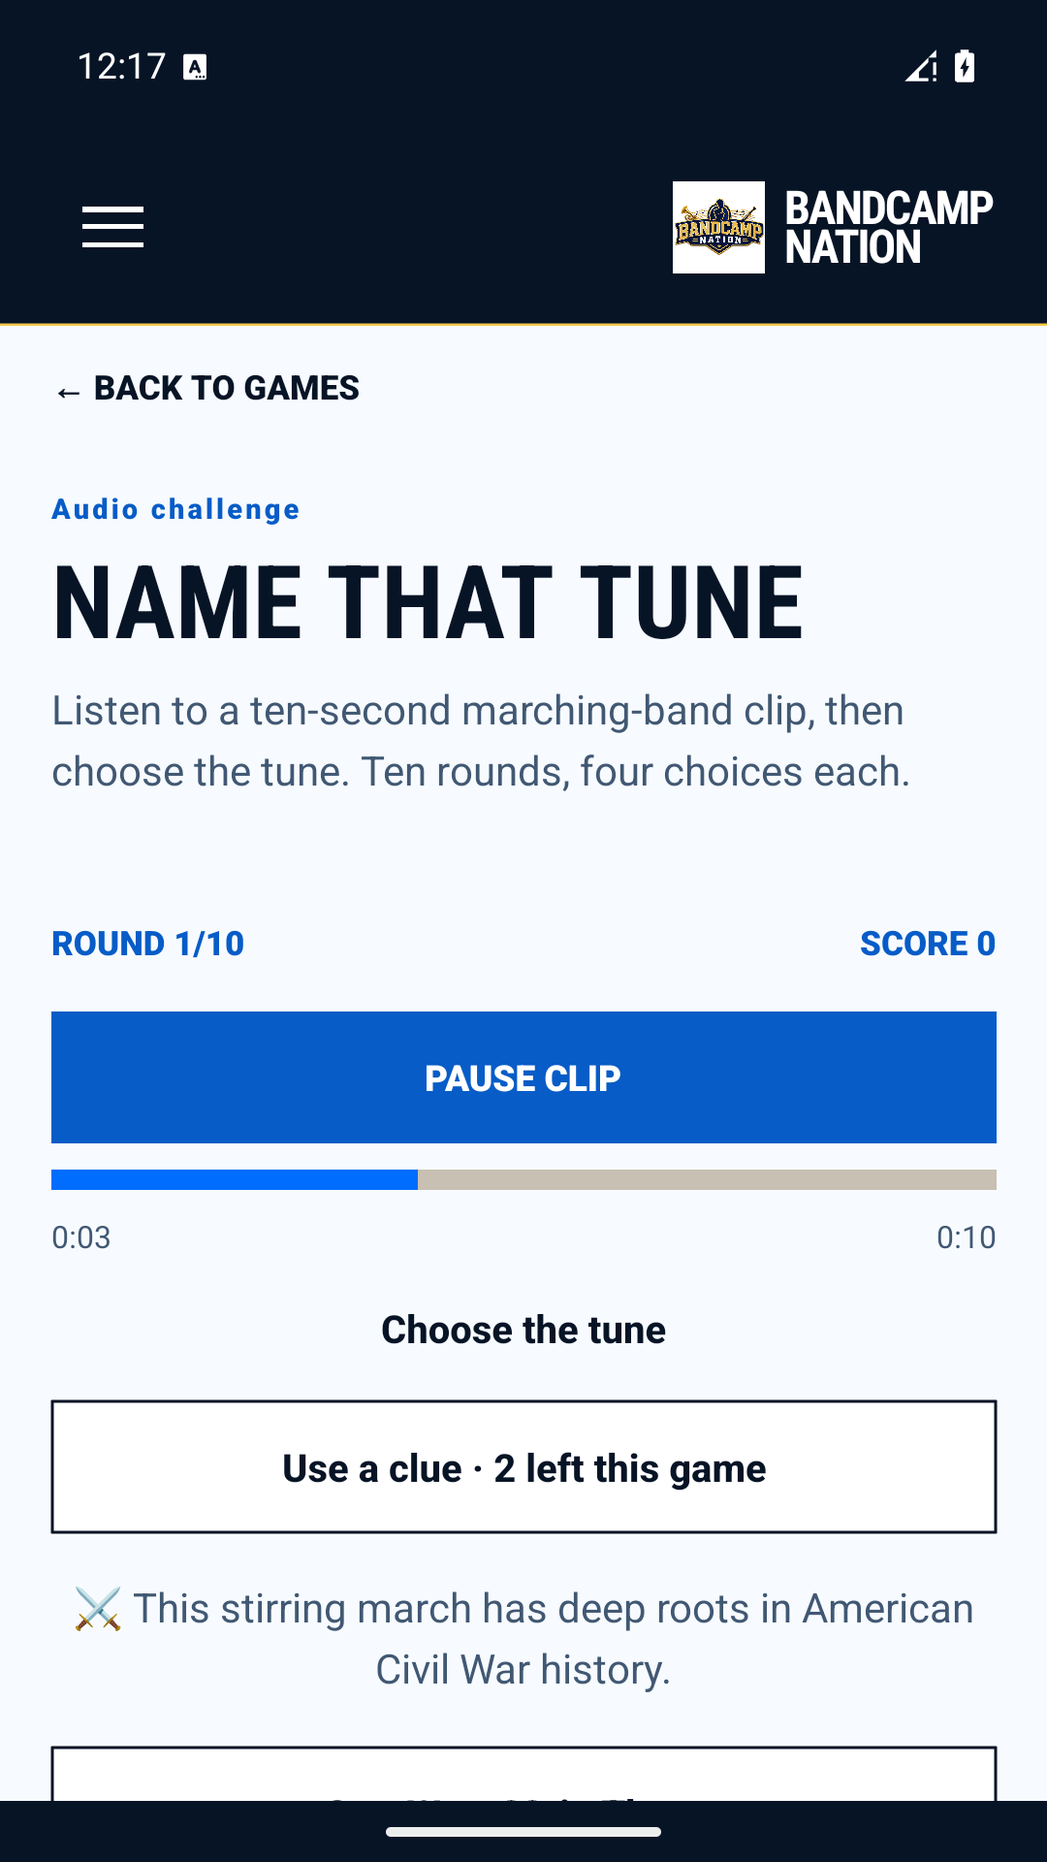
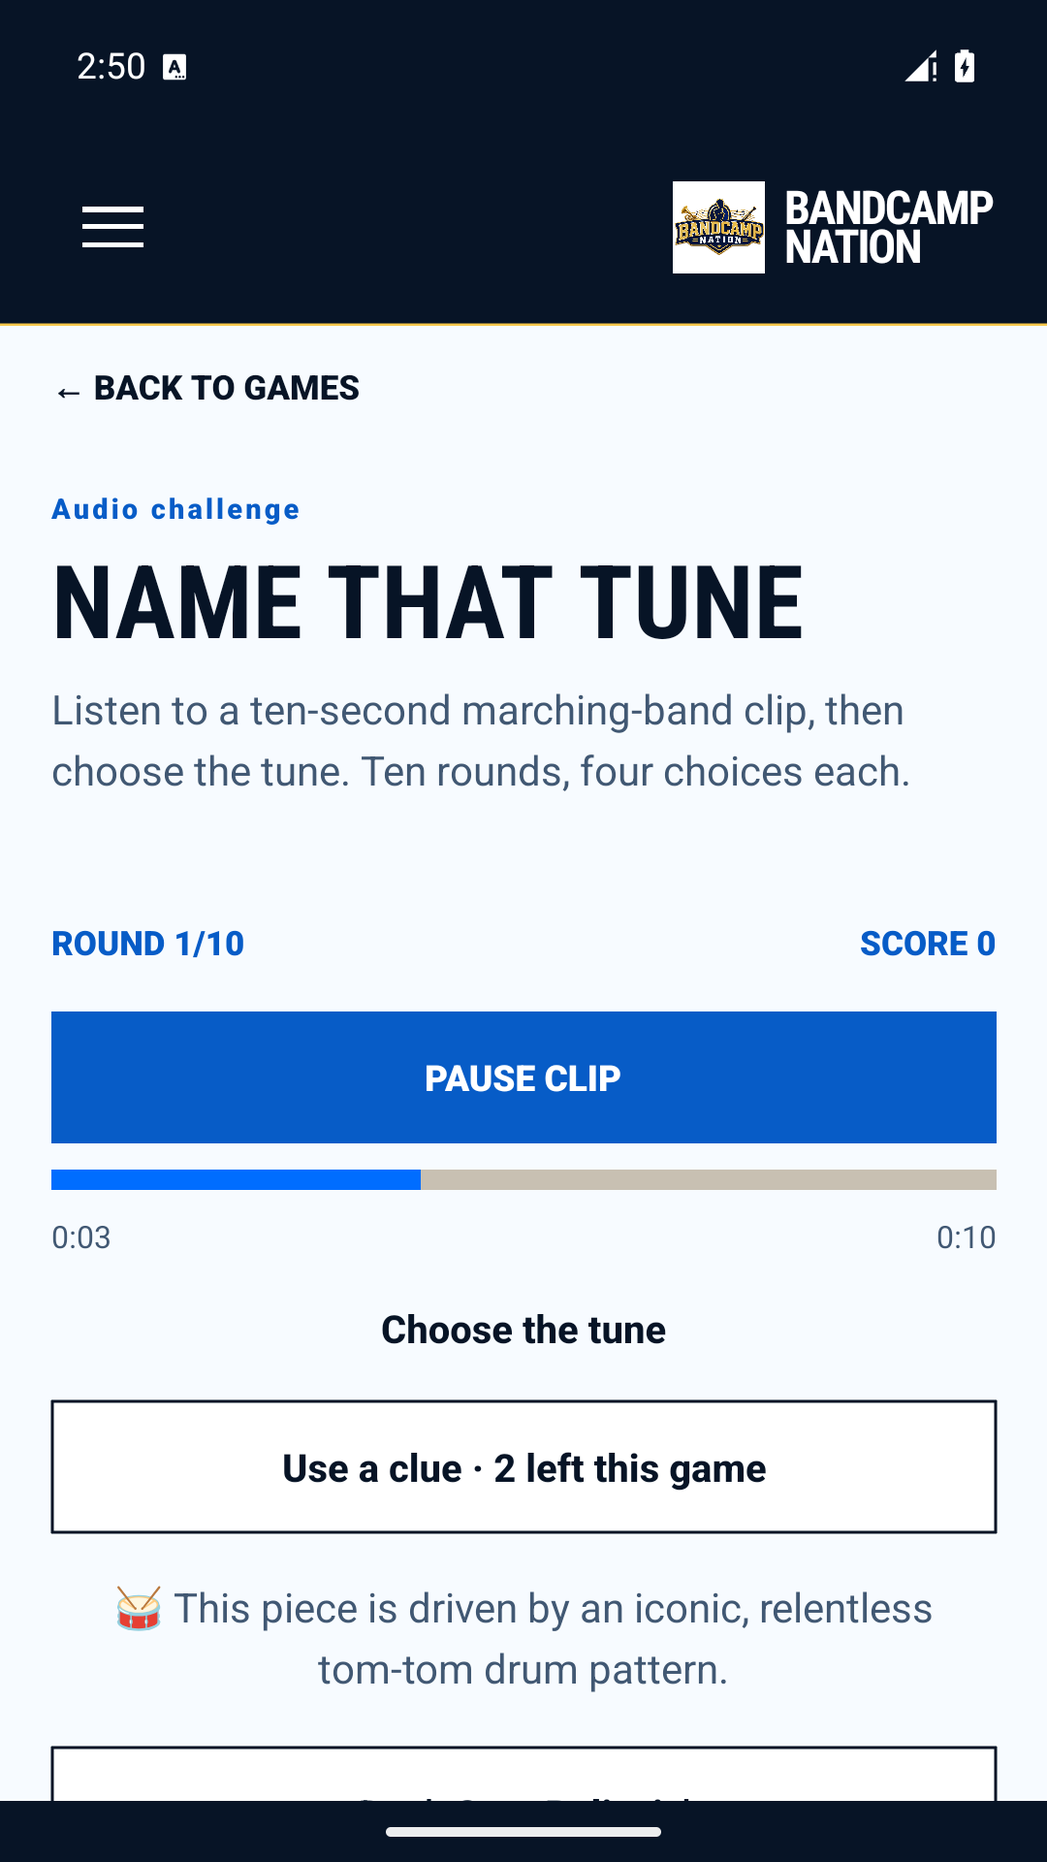
Produce test builds and complete intern release handoff

Changed region(s): [[0.0611, 0.8438, 0.9167, 0.9062], [0.0611, 0.0312, 0.2139, 0.0625]]

diff --git a/docs/PROGRESS.md b/docs/PROGRESS.md
@@ -13,30 +13,30 @@ Performed October 19, 2026. Status: **complete**.
 
 ## Bootstrap BandCampNation Expo app and test Android/iOS launch
 
-Performed October 19, 2026. Status: **implementation complete; iOS launch acceptance blocked**.
+Performed October 19, 2026. Status: **native Android/iOS launches verified; physical-device acceptance pending**.
 
 - Created the standalone Expo/TypeScript project using the reference lockfile and original BandCampNation logo. Proposed identifiers are `com.bandcampnation.mobile`; owner confirmation is needed before signing.
 - `npm ci` passed. `npm run check` passed on isolated Node 24.21.0: lint, strict TypeScript and manifest/security checks.
 - Android and iOS Hermes bundle exports passed. These are not signed binary builds.
 - Created a temporary API 36 ARM64 Android emulator, installed Expo Go SDK 57, and launched the app through Metro on port 8082. Native UI text assertions passed; screenshot: [Android bootstrap](evidence/android-bootstrap.png).
-- iOS launch remains blocked: full Xcode and `simctl` are absent. No iOS runtime claim is made.
+- Local iOS launch was initially blocked because full Xcode and `simctl` are absent. Hosted native iOS launch was subsequently verified in the final QA task below.
 - Setup commands and environment/credential boundaries are in SETUP.md. The installed Homebrew Node 24 has a missing simdjson dylib; verification used an isolated official Node 24 runtime rather than changing system software.
 - Review/demo: `npm ci && npm start`, then open on Android with Expo Go. GitHub push evidence is the remote commit matching this task title.
 
 ## Build native navigation, Home, theme and accessibility
 
-Performed October 19, 2026. Status: **implementation and Android navigation checks complete; assistive-technology acceptance pending**.
+Performed October 19, 2026. Status: **native Android/iOS navigation verified; assistive-technology acceptance pending**.
 
 - Added branded native Home, shared header/menu, and Home/Radio/Articles/Books/Entertainment destinations using Expo Router.
 - Adapted original BandCampNation hero/logo/copy and palette. Reused the reference shell and 48-point controls, scalable text, semantic labels/headings and modal isolation; made the menu scrollable for large text.
 - Fixed a real native compatibility issue found during testing: Expo Router's Slot requires flattened styles on Link children. Primary navigation now uses flattened styles; brand styles are plain objects.
 - `npm run check` passed (lint, TypeScript, manifest and route checks).
 - API 36 ARM64 Expo Go UI-tree journey passed Radio, Articles, Books, Entertainment, return Home and menu open/close. Screenshots: [Home](evidence/android-home.png), [menu](evidence/android-navigation.png).
-- Remaining destination bodies are deliberately implemented in their following tasks. Human VoiceOver/TalkBack and iOS checks remain open; see ACCESSIBILITY.md.
+- Destination bodies were completed in the following tasks. Native iOS navigation was subsequently verified in final QA; human VoiceOver/TalkBack checks remain open (ACCESSIBILITY.md).
 
 ## Connect content services and migrate articles/books reader
 
-Performed October 19, 2026. Status: **implementation and Android reader checks complete; iOS device acceptance pending**.
+Performed October 19, 2026. Status: **native Android/iOS reader checks passed; physical-device acceptance pending**.
 
 - Migrated all 15 original articles and both complete books: 64 native reading sections total, including 33 book sections. Bundled the original covers and decoded text; no server modules/credentials or HTML runtime enter Metro.
 - Added searchable native libraries, article/chapter reading, book contents, previous/next sections, scalable/selectable text and missing-document/section handling. Navigating sections resets scroll position.
@@ -48,7 +48,7 @@ Performed October 19, 2026. Status: **implementation and Android reader checks c
 
 ## Implement BandCamp Radio playback and track browsing
 
-Performed October 19, 2026. Status: **implementation and Android streaming checks complete; iOS playback acceptance pending**.
+Performed October 19, 2026. Status: **native Android/iOS playback checks passed; physical-device acceptance pending**.
 
 - Connected the existing public `/api/radio/songs` service without AWS credentials or SDKs. Verified 81 published, unrestricted HTTPS tracks in the live response.
 - Added boundary validation, duplicate/private/draft/unsafe-URL exclusion, sorting, local title/artist/tag search, incremental browsing and selected-track feedback.
@@ -60,7 +60,7 @@ Performed October 19, 2026. Status: **implementation and Android streaming check
 
 ## Build entertainment hub and migrate Trivia/Tic-Tac-Toe
 
-Performed October 19, 2026. Status: **implementation and Android game checks complete; iOS device acceptance pending**.
+Performed October 19, 2026. Status: **native Android/iOS game checks passed; physical-device acceptance pending**.
 
 - Added native entertainment cards with original BandCampNation artwork and two offline playable games.
 - Reused the BetweenBands native Trivia screen and ten source-matched questions with scoring, answer feedback, next/results and replay. Reused native Tic Tap Tone with single/two-player modes, win/tie, reset and computer win/block moves.
@@ -72,7 +72,7 @@ Performed October 19, 2026. Status: **implementation and Android game checks com
 
 ## Adapt audio games and audit remaining mobile game parity
 
-Performed October 19, 2026. Status: **native adaptation and Android check complete; mentor parity review and iOS acceptance pending**.
+Performed October 19, 2026. Status: **native Android/iOS audio-game checks passed; mentor parity review and physical-device acceptance pending**.
 
 - Added native Name That Tune using all 40 original BandCampNation ten-second snippets and three-clue sets, bundled for offline use.
 - Reused tested shuffle/unique-round/choice generation and the reference native audio screen. Added three clues per game, listen-before-answer, score/results/replay, loading/error/retry and native progress/play/pause.
@@ -83,7 +83,7 @@ Performed October 19, 2026. Status: **native adaptation and Android check comple
 
 ## Add network recovery, lifecycle handling and app polish
 
-Performed October 19, 2026. Status: **implementation and standalone Android recovery checks complete; iOS/physical interruption checks pending**.
+Performed October 19, 2026. Status: **Android recovery and Android/iOS background-pause checks passed; physical interruption checks pending**.
 
 - Added shared audio lifecycle handling, exclusive focus/no recording, explicit pause on screen blur and both background/foreground transitions. Native testing exposed Expo Audio's automatic foreground resume; pausing again on foreground fixes it.
 - Added active/focused radio completion advancement, native-position seeking, catalog refresh retaining prior data on error, uncached public fetches, artwork retry/fallback, clip exception handling, unknown-route recovery and a root retry boundary.
@@ -92,15 +92,28 @@ Performed October 19, 2026. Status: **implementation and standalone Android reco
 - `npm run check` passed; current iOS and Android Hermes exports passed.
 - Standalone API 36 ARM64 APK checks passed background → foreground → paused, forced Wi-Fi/data loss → radio error, network restoration → retry → playback → pause. Native audio-state inspection after navigating to Articles showed the app's players paused.
 - Evidence: [background paused](evidence/android-background-paused.png), [offline radio](evidence/android-radio-offline.png), [restored playback](evidence/android-radio-recovered.png).
-- Physical headset/call interruptions and human screen-reader testing remain open. Local full Xcode remains unavailable; hosted iOS simulator QA is being prepared next.
+- Physical headset/call interruptions and human screen-reader testing remain open. Local full Xcode remains unavailable; hosted iOS simulator QA subsequently passed in the following task.
 
 ## Run Android/iOS device QA and fix MVP defects
 
-Performed October 19, 2026. Status: **Android Release QA passed; hosted iOS QA in progress**.
+Performed October 19, 2026. Status: **native Android Release and iOS simulator QA passed; physical-device and human accessibility checks pending**.
 
 - Added a repeatable native Android driver and hosted iOS Release-build/XCTest workflow with screenshot/result/demo artifacts. Local Python/Ruby/Swift syntax and workflow YAML checks passed.
 - Built and installed the standalone ARM64 Android Release APK with embedded JavaScript, all reading content and 40 MP3 clips. All nine native smoke stages passed: Home, offline article/book, live radio, background pause, complete 10/10 Trivia/replay, Tic Tap Tone tie, offline audio game and 200% text navigation. [Machine-readable result](evidence/android-release-report.json), [radio](evidence/android-release-radio.png), [offline audio](evidence/android-release-audio.png), [large text](evidence/android-release-large-text.png).
[2 lines of base64/hex data omitted]
 - Applied Expo Doctor's six recommended SDK 57 patch updates. `npm run check` passed afterward. Compatible lockfile security updates removed the reported critical advisory; remaining upstream entries are documented in DEPENDENCY_REVIEW.md.
 - Current Android/iOS exports passed a server SDK/credential-marker check. No website/server source was changed.
-- Expo Doctor passed 21/21. Hosted checks passed clean install, lint, TypeScript, all nine tests and both exports. The [first iOS run](https://github.com/Accoladi/BandCampNation-Mobile-App/actions/runs/39282437969) generated the project/pods and booted a simulator, then failed because the new UI-test target had no product name. Set its explicit product name and reran the native build; iOS acceptance is pending that actual result. Physical-device and assistive-technology acceptance remains open.
+- Expo Doctor passed 21/21. Hosted checks passed clean install, lint, TypeScript, all nine tests and both exports.
+- The [final native iOS run](https://github.com/Accoladi/BandCampNation-Mobile-App/actions/runs/39299528440) passed the complete XCTest journey: Home/navigation, native article/book, live radio/background pause/next/pause, Trivia progression, Tic Tap Tone win and bundled Name That Tune playback/clue. The iPhone 17 Pro simulator app uses the iOS 26.5 SDK with a 16.4 minimum deployment target; it is not an iPhone-device signing artifact.
+- Native QA fixed the generated test product name, grouped iOS button-label lookup, clipped iOS typography and fixed-height headers. The final build uses iOS system display text and headers that can grow with larger text. Evidence: [run report](evidence/ios-release-report.json), [Home](evidence/ios-home.png), [reader](evidence/ios-reader.png), [radio](evidence/ios-radio.png), [Tic Tap Tone win](evidence/ios-tic-win.png), [audio game](evidence/ios-audio-game.png). Physical-device and assistive-technology acceptance remains open.
+
+## Produce test builds and complete intern release handoff
+
+Performed October 19, 2026. Status: **Android/iOS simulator demos and handoff ready; signed internal distribution blocked by account access**.
+
+- Produced the installable Android ARM64 demo APK and retained its successful Gradle build log, SHA-256 receipt and native smoke report locally under `artifacts/`. The binary includes JavaScript, all reading content and 40 audio clips and launches without Metro. It uses a generated debug signing key.
+- Produced the unsigned iOS simulator demo archive with embedded JavaScript and all 40 audio clips. The successful hosted run retains the app, screenshots and XCTest result bundle; local copies are under `artifacts/`. It cannot install on a physical iPhone.
+- Added standard Expo native Debug/Release commands and minimal EAS preview/device and simulator profiles, validated against the pinned EAS 24.10.0 schema. No custom release tooling, production submission workflow or invented account/project identifiers.
+- Final clean `npm ci`, lint, strict TypeScript and all nine tests passed; Expo Doctor passed 21/21. Both platform exports also passed in hosted checks.
+- HANDOFF.md covers setup, local builds, demo installation, cloud/test builds, mentor review, physical-device/accessibility checks, signing ownership, dependency review and rollback. SETUP.md and README link to the runnable workflow.
+- Expo reports `Not logged in`; developer-account/project ownership, Apple signing/provisioning and Play access remain unverified. No signed internal distribution, physical iPhone install or public-store approval is claimed.

diff --git a/docs/HANDOFF.md b/docs/HANDOFF.md
@@ -1,0 +1,81 @@
+# Intern build and release handoff
+
+## Delivered scope
+
+BandCampNation Home/navigation, all 15 articles, both complete books, live BandCamp Radio with browsing/playback/recovery, native Trivia/Tic Tap Tone and offline Name That Tune. GAME_PARITY.md is the mentor's review list. PROGRESS.md and QA.md distinguish actual native results from pending acceptance gates.
+
+All work lives in `Accoladi/BandCampNation-Mobile-App`, branch `codex/acc-294-mobile-mvp`. The BetweenBands repos and BandCampNation website source are unchanged. Commit messages use the supplied task names without date/day prefixes.
+
+## Run and test
+
+Use Node.js 24. The verified local native build used JDK 21, Android SDK 36, Gradle 9.3.1 and an API 36 ARM64 emulator. Full Xcode/CocoaPods and an available simulator are needed for local iOS builds.
+
+```sh
+npm ci
+npm run check
+npx expo-doctor
+npm start
+```
+
+Expo Go is the quick QR-code demo. `npm run android` / `npm run ios` creates and runs native Debug builds with the platform toolchain. For a standalone build with embedded content:
+
+```sh
+npm run build:android:demo
+npm run build:ios:demo
+```
+
+The iOS demo command builds a generic simulator app into `artifacts/ios-simulator`; it requires full Xcode and does not install on a physical iPhone. Native folders are generated and ignored. If changing app.json after generation, rerun `npx expo prebuild --platform android` or `--platform ios` before rebuilding.
+
+The verified Android Release build can also be reproduced directly:
+
+```sh
+npx expo prebuild --platform android --no-install
+NODE_ENV=production ./android/gradlew -p android :app:assembleRelease --max-workers=2 -PreactNativeArchitectures=arm64-v8a
+```
+
+The local ARM64 APK is `artifacts/BandCampNation-Android-Demo.apk`; the generated source output is `android/app/build/outputs/apk/release/app-release.apk`. It embeds JavaScript, reading covers/text and 40 MP3 snippets, so it can launch and use bundled content without Metro. Radio still requires internet. The local demo uses the generated **debug signing key**; it is not a store-signing artifact. Do not commit keystores, native folders, credentials or binary builds.
+
+Install and rerun the native Android acceptance journey:
+
+```sh
+adb install -r artifacts/BandCampNation-Android-Demo.apk
+ANDROID_HOME=/path/to/Android/sdk python3 scripts/android-smoke.py
+```
+
+The local `artifacts/Android-Demo-Receipt.json` records the APK hash, source revision, toolchain and nine passed native smoke stages. `artifacts/Android-build.log` preserves the successful native build output. Selected screenshots and the smoke report are checked into `docs/evidence`; binary builds stay outside Git.
+
+The hosted `Native mobile QA` workflow builds a Release iOS simulator app, runs XCTest journeys, and retains the simulator archive/screenshots/results for 14 days. Download the successful run's `ios-simulator-demo-and-qa` artifact. A simulator `.app` cannot install on a physical iPhone. See the actual run status in PROGRESS.md; queued/failed runs are not build evidence.
+
+On a Mac with full Xcode and a booted iOS simulator, install the downloaded demo:
+
+```sh
+unzip artifacts/BandCampNation-iOS-Simulator.zip -d artifacts/ios-demo
+xcrun simctl install booted artifacts/ios-demo/BandCampNation.app
+xcrun simctl launch booted com.bandcampnation.mobile
+```
+
+## Internal distribution
+
+Owner actions required: sign into Expo, confirm the organization/project, confirm proposed `com.bandcampnation.mobile` identifiers, and supply developer-account/signing access through the platform tools. No credentials should be pasted into code or chat.
+
+```sh
+npm run eas -- login
+npm run eas -- whoami
+npm run eas -- init
+npm run eas -- build --platform android --profile preview
+npm run eas -- build --platform ios --profile preview
+```
+
+Choose the owner-confirmed Expo organization during initialization. EAS will add its public project ID/owner metadata; review those fields before committing. The preview profile produces an Android APK and an iOS device build using the appropriate signing setup. For a cloud simulator build, use `--platform ios --profile simulator` instead. EAS account access is required even though a simulator build does not need Apple device signing.
+
+At this handoff, Expo `whoami` returned `Not logged in`; project ownership, Apple membership/provisioning and Google Play access remain unverified. No cloud EAS build, device distribution upload or store submission is claimed.
+
+## Acceptance and release responsibilities
+
+- Mentor reviews radio/reading/two priority games, then the audio game and deferred parity list.
+- Intern records physical Android/iOS installs, VoiceOver/TalkBack, large text, headset/call interruptions, network loss/retry and cold relaunch. Preserve device/OS/build IDs and screenshots; report failures explicitly.
+- Owner confirms branding, content/media rights, privacy/support/store metadata, identifiers and signing ownership. Existing website policy pages are `/privacy` and `/terms`; have the owner review the mobile app's data disclosures.
+- Review DEPENDENCY_REVIEW.md before public release. The lockfile has no critical audit entry but retains SDK advisories requiring upstream/security review.
+- For defects, return to the previous verified build/commit and record the affected build ID. Do not rotate signing identities or delete store records as a rollback.
+
+Public app-store approval is outside this sprint. Production submission automation is deferred until the account and release gates are satisfied.

diff --git a/docs/QA.md b/docs/QA.md
@@ -22,7 +22,7 @@ The standard-library-only driver uses fresh native accessibility trees, avoids c
 
 The `Native mobile QA` GitHub workflow builds an unsigned **iOS simulator** Release app with embedded JavaScript/media and runs XCTest UI journeys for Home, article/book reading, live radio/background pause, Trivia, a Tic Tap Tone win and bundled Name That Tune. It retains screenshots, `.xcresult`, build logs and a simulator `.app` archive. No Apple signing account is needed for that simulator target. Pushes changing its workflow/test source start it; later app changes can be tested with manual workflow dispatch.
 
-The final Android Release APK passed all nine stages; the checked-in report and selected screenshots are linked in PROGRESS.md. The hosted iOS job must actually succeed before being recorded as passed. The iOS simulator archive cannot install on a physical iPhone.
+The Android Release APK passed all nine stages. The final hosted iOS run passed the complete native XCTest journey. Reports, run links and selected screenshots are linked in PROGRESS.md. The iOS simulator archive cannot install on a physical iPhone; physical-device and human accessibility acceptance remains open.
 
 ## Defects found during implementation
 
@@ -33,6 +33,8 @@ The final Android Release APK passed all nine stages; the checked-in report and 
 - Debug-only Expo connection-warning overlays interfered with some UI taps. Final offline/full-game QA uses an embedded-bundle Release APK.
 - Expo Doctor identified six SDK 57 patch mismatches; aligned them within SDK 57 rather than changing framework generation.
 - Hosted Xcode rejected an unnamed generated UI-test product; the target now sets its product name explicitly.
+- iOS grouped a mode button's icon/title/description into one accessibility label; the test now also locates grouped buttons by contained label text.
+- Screenshot review found clipped condensed iOS display text and a tight brand line height. The app now uses the iOS system display font, adequate brand line height and headers that grow with text.
 
 ## Manual acceptance still required
 

diff --git a/README.md b/README.md
@@ -6,4 +6,8 @@ All implementation belongs in this repository. BetweenBands is a reference only.
 
 See [the source audit](docs/AUDIT.md), [the ten-task plan](docs/SPRINT_PLAN.md), and [acceptance evidence](docs/PROGRESS.md).
 
+Use Node.js 24, then `npm ci && npm start`. Run `npm run check` and `npx expo-doctor` for validation. `npm run android` / `npm run ios` builds native Debug apps; `npm run build:android:demo` / `npm run build:ios:demo` builds standalone demos with the platform toolchain.
+
+Setup, demo installation, account blockers and internal-test builds: [intern handoff](docs/HANDOFF.md). Remaining games: [mentor parity review](docs/GAME_PARITY.md).
+
 Public app-store approval is outside the MVP commitment. Internal distribution requires developer accounts and signing access. AWS credentials and server-only code must never enter the mobile bundle.

diff --git a/docs/SETUP.md b/docs/SETUP.md
@@ -11,7 +11,7 @@ npm ci
 npm start
 ```
 
-Install the compatible Expo Go version on a phone and scan the QR code on the same network. `npm run android` / `npm run ios` opens a configured emulator/simulator. iOS simulation requires full Xcode selected with `xcode-select`, not just Command Line Tools. Android requires a running Android Studio AVD or a USB-debugging device.
+Install the compatible Expo Go version on a phone and scan the QR code on the same network. `npm run android` / `npm run ios` builds and opens the native Debug app on a configured emulator/simulator. iOS simulation requires full Xcode selected with `xcode-select`, not just Command Line Tools. Android requires JDK 21, SDK 36 and a running AVD or a USB-debugging device.
 
 ```sh
 npm run check
